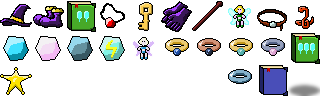
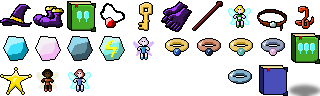
ADD New Fairies
- Fire fairy
- Auto target fairy

Changed region(s): [[0.0938, 0.7188, 0.2812, 0.9688], [0.4375, 0.375, 0.4688, 0.4688], [0.4375, 0.5, 0.4688, 0.5312]]

diff --git a/src/Items.h b/src/Items.h
@@ -31,9 +31,11 @@ enum enumRarity
  */
 enum enumFamiliar
 {
-  FamiliarNone = -1,     /**< No familiar */
-  FamiliarFairy,    /**< Standard Fairy */
-  FamiliarFairyIce  /**< Ice Fairy */
+  FamiliarNone = -1,    /**< No familiar */
+  FamiliarFairy,        /**< Standard Fairy */
+  FamiliarFairyIce,     /**< Ice Fairy */
+  FamiliarFairyFire,    /**< Fire Fairy */
+  FamiliarFairyTarget   /**< Target Fairy */
 };
 const int FAIRY_NUMBER = 2;
 
@@ -70,7 +72,9 @@ enum enumItemType
   ItemRingLightning,
   ItemRingIllusion,
   ItemBookTripleShots,
-  ItemBroochStar
+  ItemBroochStar,
+  ItemFairyFire,
+  ItemFairyTarget
 };
 
 const int FirstEquipItem = (int) ItemMagicianHat; /*!< Used as an offset when creating items */
@@ -98,7 +102,7 @@ struct itemStuct
   enumShotType specialShot;     /**< Special shot */
 };
 
-const int NUMBER_ITEMS = 28;  /*!< Total number of items */
+const int NUMBER_ITEMS = 30;  /*!< Total number of items */
 /** Array with all the items and data */
 const itemStuct items[NUMBER_ITEMS] =
 {
@@ -159,7 +163,7 @@ const itemStuct items[NUMBER_ITEMS] =
     25, true, FamiliarNone, true, true, true, 2, RarityCommon, AlignmentNone, -1, ShotTypeStandard
   },
   {
-    ItemFairy, "Fairy", "Helps you in the dungeon",
+    ItemFairy, "Fairy Lilly", "Helps you in the dungeon",
     20, true, FamiliarFairy, false, true, true, 1, RarityCommon, AlignmentNone, -1, ShotTypeStandard
   },
   {
@@ -187,7 +191,7 @@ const itemStuct items[NUMBER_ITEMS] =
     25, true, FamiliarNone, true, true, true, 2, RarityCommon, AlignmentNone, -1, ShotTypeLightning
   },
   {
-    ItemFairyIce, "Ice Fairy", "Helps you in the dungeon",
+    ItemFairyIce, "Fairy Natasha", "Helps you in the dungeon",
     40, true, FamiliarFairyIce, false, true, true, 2, RarityUnommon, AlignmentNone, -1, ShotTypeStandard
   },
   {
@@ -213,10 +217,18 @@ const itemStuct items[NUMBER_ITEMS] =
   {
     ItemBroochStar, "Star Brooch", "Increases fire range",
     20, true, FamiliarNone, true, true, true, 4, RarityCommon, AlignmentNone, -1, ShotTypeStandard
+  },
+  {
+    ItemFairyFire, "Fairy Alicia", "Helps you in the dungeon",
+    40, true, FamiliarFairyFire, false, true, true, 2, RarityUnommon, AlignmentNone, -1, ShotTypeStandard
+  },
+  {
+    ItemFairyTarget, "Fairy Mary", "Helps you in the dungeon",
+    40, true, FamiliarFairyTarget, false, true, true, 2, RarityUnommon, AlignmentNone, -1, ShotTypeStandard
   }
 };
 
-const int NUMBER_EQUIP_ITEMS = 21;  /*!< Number of equip items */
+const int NUMBER_EQUIP_ITEMS = 23;  /*!< Number of equip items */
 /** Item equipment type enum
  *  All the equipments.
  */
@@ -241,7 +253,9 @@ enum item_equip_enum {
   EQUIP_RING_LIGHTNING,
   EQUIP_RING_ILLUSION,
   EQUIP_BOOK_TRIPLE,
-  EQUIP_BROOCH_STAR
+  EQUIP_BROOCH_STAR,
+  EQUIP_FAIRY_FIRE,
+  EQUIP_FAIRY_TARGET
   };
 
 #endif

diff --git a/src/FairyEntity.cpp b/src/FairyEntity.cpp
@@ -22,11 +22,15 @@ FairyEntity::FairyEntity(float x, float y, enumFamiliar fairyType) : SpriteEntit
   fireDelay = -1.0f;
   facingDirection = 2;
 
+  fairyDamages = FAIRY_BOLT_DAMAGES;
+
   shotLevel = 1;
   switch (fairyType)
   {
+    case FamiliarFairyTarget:
     case FamiliarFairy: shotType = ShotTypeStandard; fairyFireDelay = FAIRY_FIRE_DELAY; break;
     case FamiliarFairyIce: shotType = ShotTypeIce; fairyFireDelay = ICE_FAIRY_FIRE_DELAY; break;
+    case FamiliarFairyFire: shotType = ShotTypeFire; fairyFireDelay = FAIRY_FIRE_DELAY; fairyDamages = FAIRY_FIRE_DAMAGES; break;
 
     case FamiliarNone: break;
   }
@@ -99,6 +103,13 @@ void FairyEntity::fire(int dir, GameMap* map)
     bolt->setDamages(FAIRY_BOLT_DAMAGES);
     bolt->setVelocity(Vector2D(velx, vely));
     bolt->setFlying(true);
+
+    if (fairyType == FamiliarFairyTarget)
+    {
+      Vector2D target = game().getNearestEnnemy(x, y);
+      if (target.x > -1.0f)
+        bolt->setVelocity(Vector2D(x, y).vectorTo(target, FAIRY_BOLT_VELOCITY));
+    }
   }
 }
 

diff --git a/src/ChestEntity.cpp b/src/ChestEntity.cpp
@@ -93,6 +93,8 @@ void ChestEntity::open()
     {
       case FamiliarFairy: itemType = ItemFairy; break;
       case FamiliarFairyIce: itemType = ItemFairyIce; break;
+      case FamiliarFairyFire: itemType = ItemFairyFire; break;
+      case FamiliarFairyTarget: itemType = ItemFairyTarget; break;
     }
 
     ItemEntity* newItem = new ItemEntity(itemType, x, y);

diff --git a/src/Constants.h b/src/Constants.h
@@ -178,6 +178,7 @@ const float FAIRY_FIRE_DELAY = 0.8f;
 const float ICE_FAIRY_FIRE_DELAY = 1.3f;
 const float FAIRY_BOLT_LIFE = 0.4f;
 const int FAIRY_BOLT_DAMAGES = 8;
+const int FAIRY_FIRE_DAMAGES = 12;
 const float FAIRY_BOLT_VELOCITY = 700.0f;
 
 enum chest_type_enum {

diff --git a/src/FairyEntity.h b/src/FairyEntity.h
@@ -22,6 +22,7 @@ class FairyEntity : public SpriteEntity
     enumFamiliar fairyType;
     enumShotType shotType;
     float fairyFireDelay;
+    int fairyDamages;
     unsigned int shotLevel;
 
     void computeFacingDirection();
